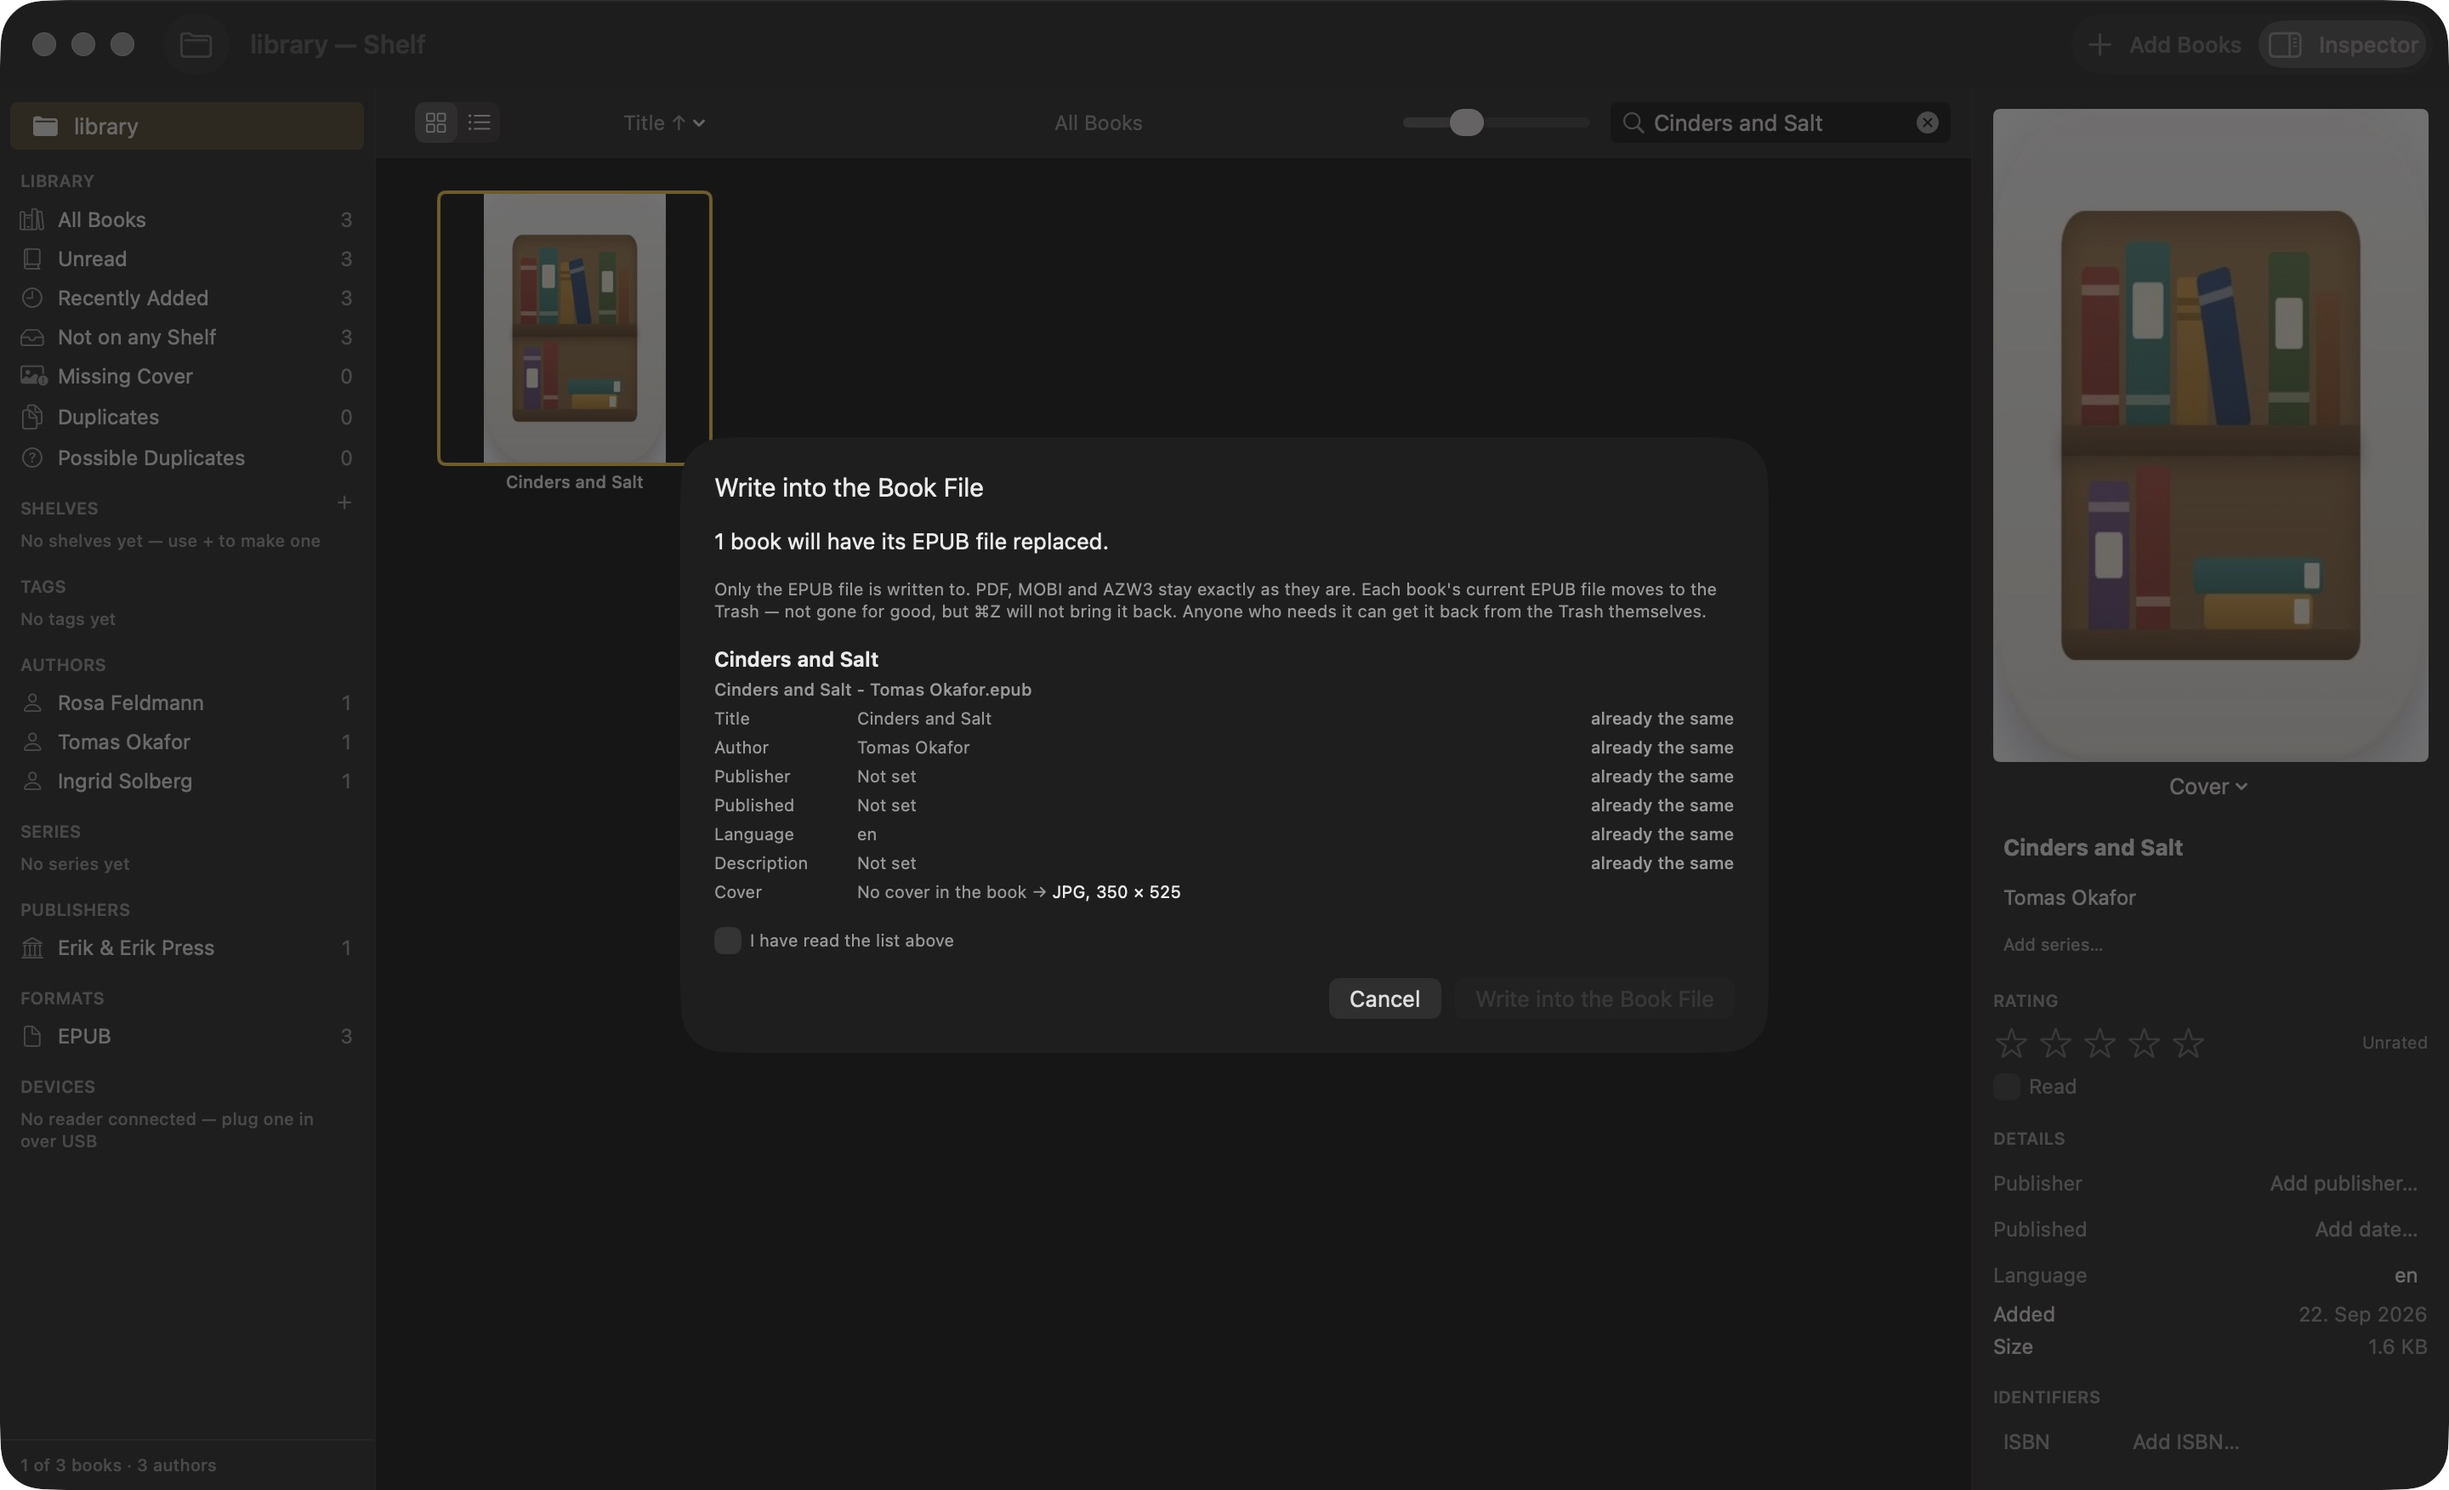
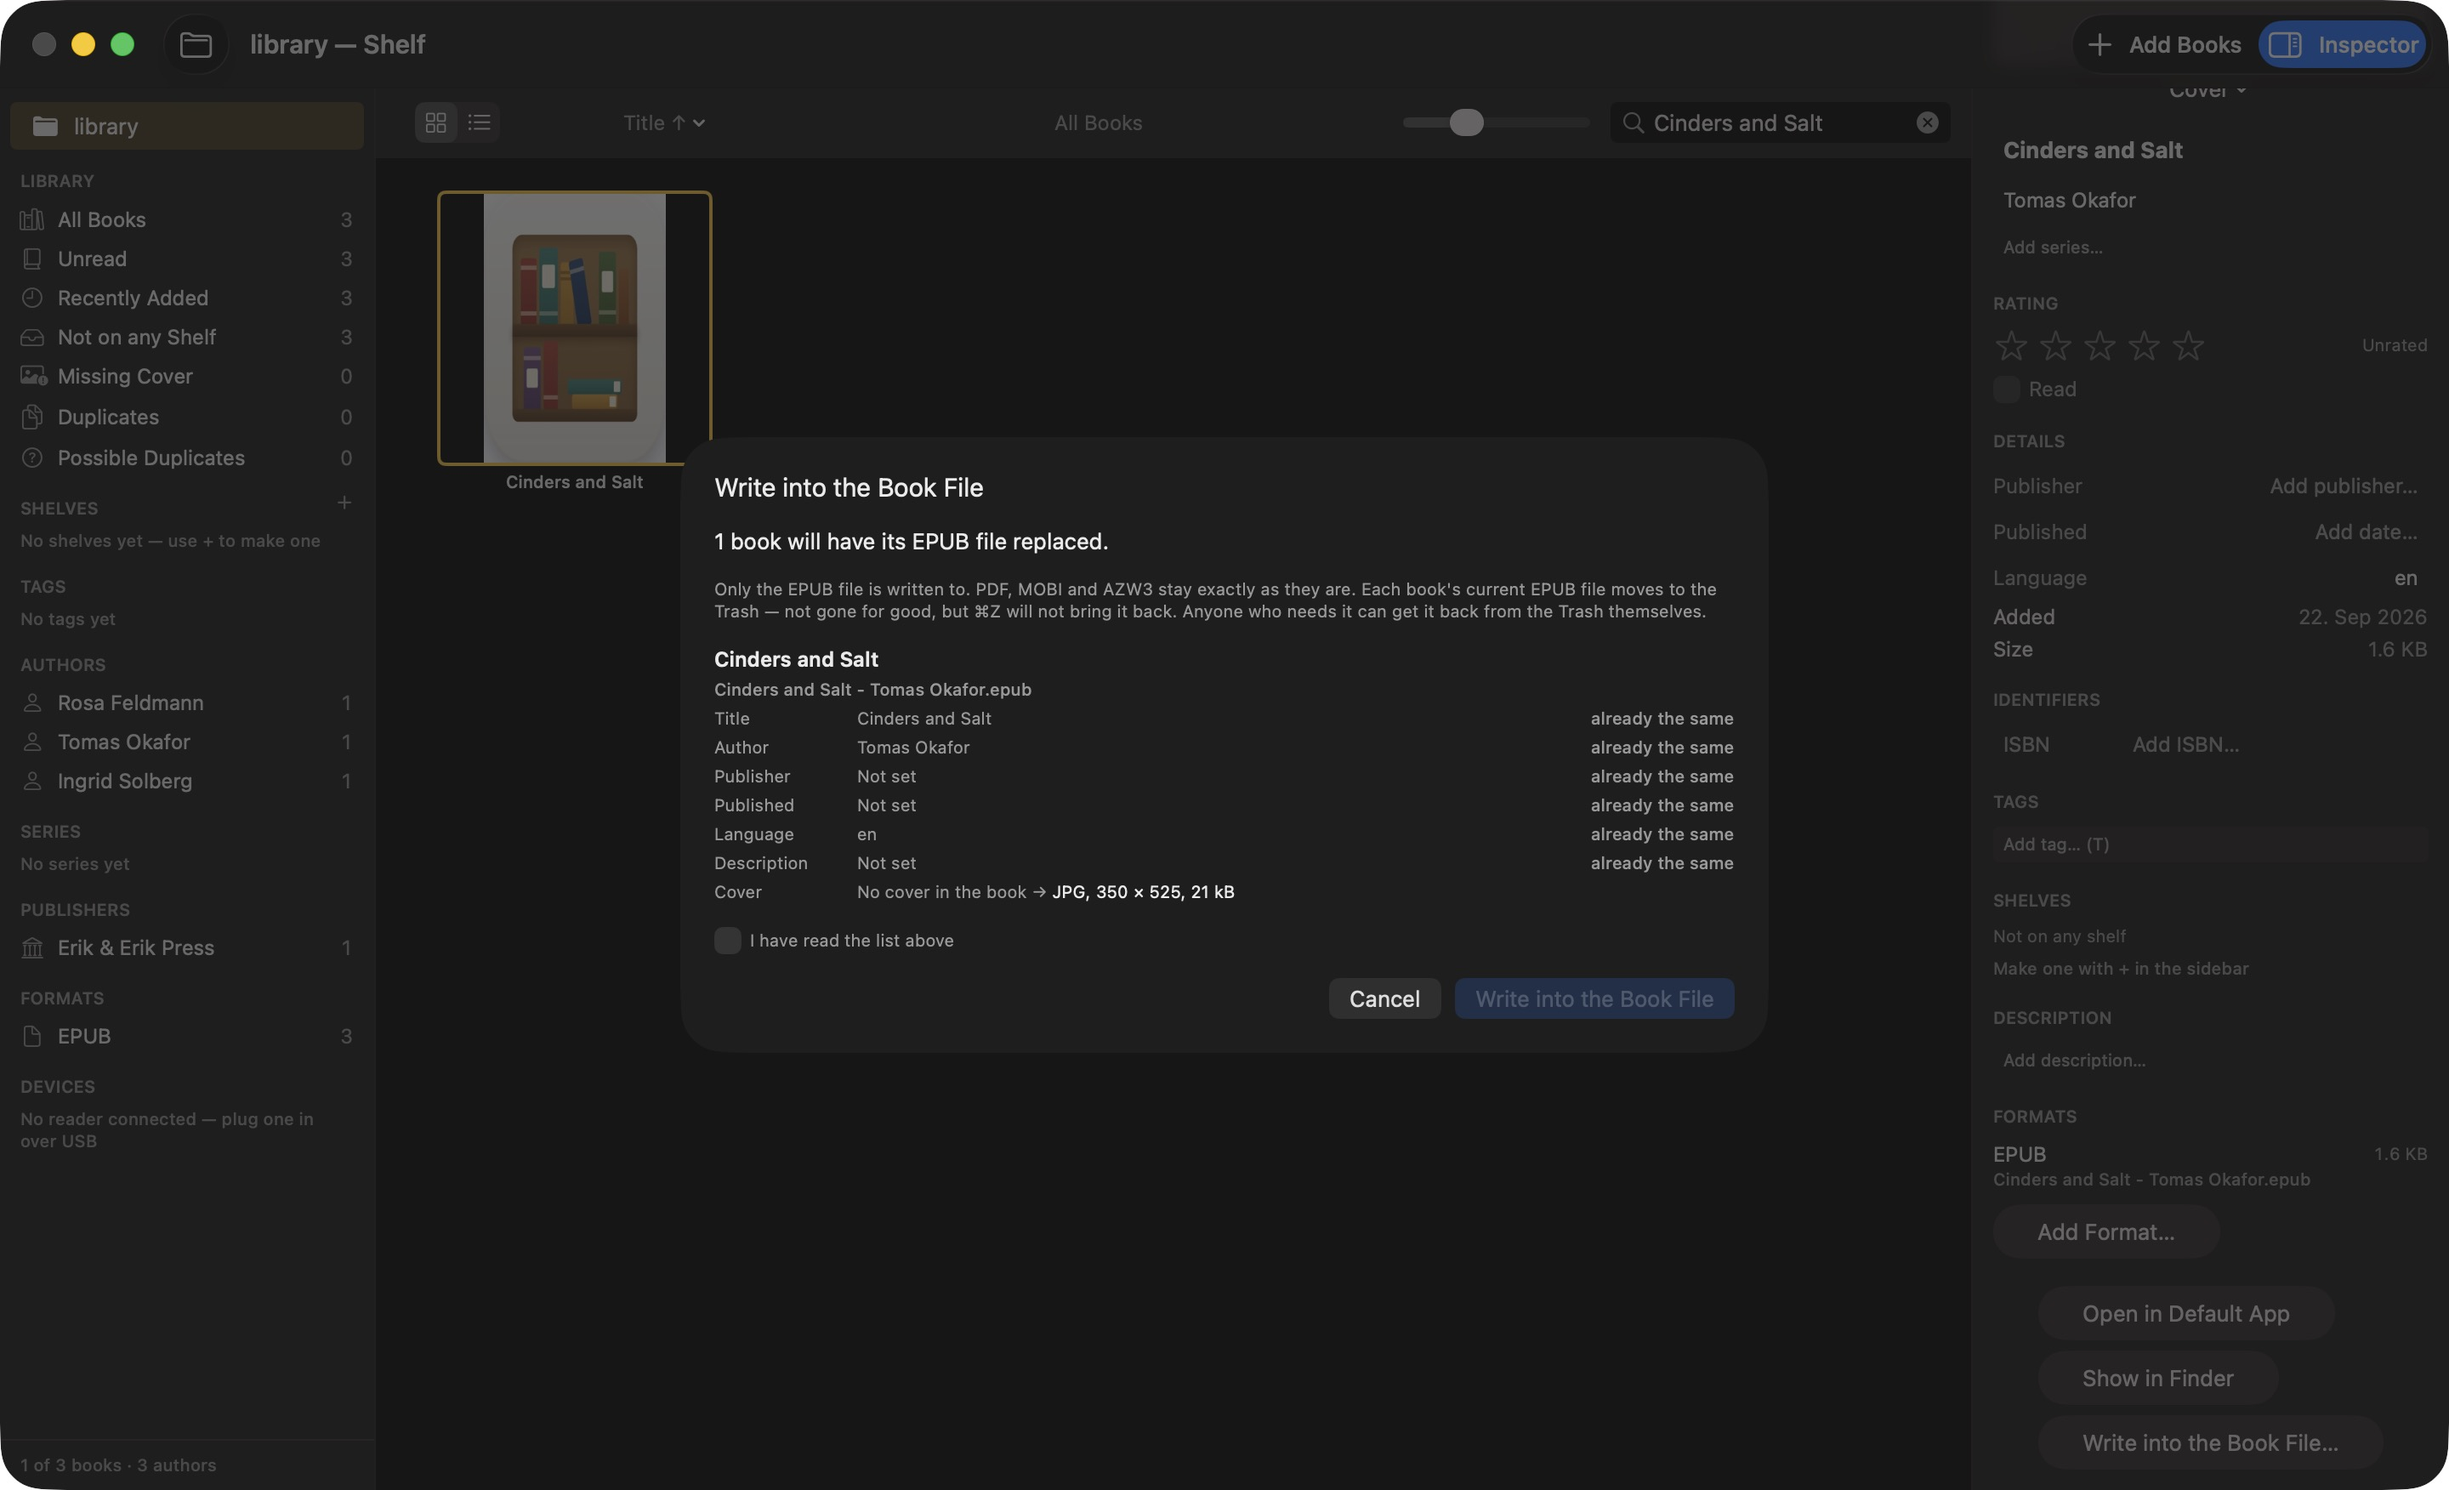
feat: the cover row in "Write into the Book File" names its own byte size
A cover written into a book can triple in size on the way in - deliberate,
but the row only ever said "JPG, 300 x 450" and left that number out.
CoverImage.describe now appends the byte size to both sides of the arrow,
through Loc.size, the same reader-language formatting the window's other
sheets already use for a size. Screenshots re-taken through the script,
both languages.

diff --git a/App/Shelf/Services/CoverImage.swift b/App/Shelf/Services/CoverImage.swift
@@ -57,11 +57,18 @@ enum CoverImage {
     }
 
     /// A short description for the "Write into the Book File" sheet's cover
-    /// row: format and pixel size, in words rather than a picture, because
-    /// the row compares two images without showing either of them
-    /// (`docs/adr/0021-…`, `EPUBWrite.CoverPlan` — the core knows only
-    /// bytes, never a pixel size, so this is the app-layer half of that
-    /// row, the same split `CoverImageRule`/`CoverImage` already has).
+    /// row: format, pixel size and byte size, in words rather than a
+    /// picture, because the row compares two images without showing either
+    /// of them (`docs/adr/0021-…`, `EPUBWrite.CoverPlan` — the core knows
+    /// only bytes, never a pixel size, so this is the app-layer half of
+    /// that row, the same split `CoverImageRule`/`CoverImage` already has).
+    ///
+    /// The byte size is the number the row used to leave out — a cover can
+    /// **triple** in size on its way in (a photograph re-encoded at
+    /// `CoverImageRule`'s own ceiling), which "JPG, 300 × 450" alone never
+    /// said. `Loc.size`, the same reader-language byte formatting every
+    /// other size in the window already uses, never the core's own
+    /// `ByteCount.format` (C-locale, for reports scripts grep).
     static func describe(_ data: Data) -> String {
         guard let source = CGImageSourceCreateWithData(data as CFData, nil), CGImageSourceGetCount(source) > 0
         else {
@@ -70,7 +77,8 @@ enum CoverImage {
         let width = pixels(of: source, kCGImagePropertyPixelWidth)
         let height = pixels(of: source, kCGImagePropertyPixelHeight)
         let format = CoverFile.fileExtension(for: data)?.uppercased() ?? "?"
-        return "\(format), \(width) × \(height)"
+        let size = Loc.size(Int64(data.count))
+        return "\(format), \(width) × \(height), \(size)"
     }
 
     // MARK: ImageIO

diff --git a/docs/screenshots/sprint-11/README.md b/docs/screenshots/sprint-11/README.md
@@ -65,12 +65,18 @@ every run.
 ## `1-cover-changed.jpg` — a cover Shelf would replace, beside a field that also changes
 
 "The Glass Almanac": a publisher edit (`Not set → Erik & Erik Press`) and a
-cover row in the very same list — `Cover  JPG, 300 × 450 → JPG, 400 × 600`
-— one sheet, one confirmation, exactly as `docs/adr/0021-…` asks for. No
-second command, no second sheet: the cover is one more row, in the same
-"label, then old → new" shape every text field already has, described in
-words because the core never decodes a pixel and this sheet does not
-either.
+cover row in the very same list — `Cover  JPG, 300 × 450, 17 kB → JPG,
+400 × 600, 25 kB` — one sheet, one confirmation, exactly as
+`docs/adr/0021-…` asks for. No second command, no second sheet: the cover
+is one more row, in the same "label, then old → new" shape every text
+field already has, described in words because the core never decodes a
+pixel and this sheet does not either.
+
+The byte size joined the row in the follow-up session that took this
+picture again (Sprint 11, Nachsitzung, Teil B) — a cover can **triple** in
+size going in (measured elsewhere: 194 % for one real book, 129 % for
+another), which "JPG, 300 × 450" alone never said. `Loc.size`, the same
+reader-language formatting every other size in the window already uses.
 
 *Judgement:* right. The row sits last, after every text field — the order
 `bookSection` already lists fields in, with the cover appended once.
@@ -79,7 +85,7 @@ either.
 
 "Cinders and Salt": every text field already matches ("schon gleich" /
 "already the same" down the list), and the cover row reads `Cover  No
-cover in the book → JPG, 350 × 525`. Nothing else about this book would
+cover in the book → JPG, 350 × 525, 21 kB`. Nothing else about this book would
 change — the cover alone is why "1 book will have its EPUB file replaced"
 is offered at all, and the checkbox and write button are enabled on that
 one row's own account.
@@ -94,7 +100,7 @@ never has to say "no cover" on both sides at once.
 "The Quiet Harbour": untouched since import, so its `cover.jpg` is exactly
 what import extracted from its own file. **Nothing to write** / *"This
 EPUB file would not change."*, the button disabled — and the cover row
-still shows, single-valued (`JPG, 300 × 450`), tagged **"already the
+still shows, single-valued (`JPG, 300 × 450, 17 kB`), tagged **"already the
 same"** off to the side, the identical treatment a text field gets in this
 state (Sprint 10, Schritt E2). The row does not disappear just because
 nothing would change; it says so, the same lesson that sprint already

diff --git a/CHANGELOG.md b/CHANGELOG.md
@@ -3,6 +3,37 @@
 Newest first. Measured numbers belong here, with the machine they were measured
 on and what was *not* measured.
 
+## Sprint 11, Nachsitzung, Teil B — the size the cover row left out · 22 September 2026
+
+Sprint 11, Schritt 3's cover row said "JPG, 300 × 450" and nothing about
+the number that actually matters: a cover written into a book can
+**triple** in size (194 % for *Die Verwandlung*, 129 % for *Alice*,
+measured in that same sprint's run) — deliberate, and staying that way, but
+the row never said so.
+
+`CoverImage.describe(_:)` (`App/Shelf/Services/CoverImage.swift`) now
+appends the byte size to both sides: `"JPG, 300 × 450, 17 kB → JPG,
+400 × 600, 25 kB"`. `Loc.size`, the same reader-language byte formatting
+`OrphanSheet`, `ExportSheet`, `SendToDeviceSheet` and `Summaries` already
+use for a size sentence in a sheet — never the core's own `ByteCount
+.format`, which is C-locale on purpose, for reports scripts grep. No new
+catalogue entries: the row is format code and numbers glued together, never
+routed through `Loc.string` as a sentence, and stays that way — checked by
+reading the row in both languages, not merely by reasoning about it: the
+"kB"/"×" punctuation is identical in both, only the surrounding sentences
+translate.
+
+Screenshots re-taken through `Scripts/write-into-book-cover-shot.sh`
+(never by hand), both languages, against the fixture's own three real
+JPEGs — the same three-book library Schritt 3 built. Every value shown
+(`17 kB → 25 kB`, `21 kB`, `17 kB`) read directly off the sheet in the
+screenshot, not computed separately and merely trusted to match.
+`docs/screenshots/sprint-11/README.md` quotes the new row under all three
+relevant pictures.
+
+790 core tests (unchanged — no core code touched), `make lint`, `make app`
+and `make smoke` clean. One commit.
+
 ## Sprint 11, Nachsitzung, Teil A — the search itself, not only the check · 22 September 2026
 
 The previous session's own entry below left one thing open on purpose:

diff --git a/docs/BACKLOG.md b/docs/BACKLOG.md
@@ -1198,3 +1198,21 @@ candidate found and what each was built from, rather than aborting on the
 first (possibly stale) one discovery happened to pick; more than one match
 takes the newest and says so in one line. All twenty-one scripts call it.
 `docs/CHANGELOG.md`, Sprint 11, Aufräum-Sitzung Teil A.
+
+## Follow-up — the size the cover row left out · done
+
+Sprint 11, Schritt 3's own cover row (above) described a cover as "JPG,
+W × H" — format and pixel size, never the number that actually matters: a
+cover written into a book can **triple** in size on the way in (194 % for
+one real book, 129 % for another, measured in the Sprint 11 run itself),
+and the row said nothing about it. `CoverImage.describe(_:)` now appends
+the byte size to both sides of the arrow — `"JPG, 300 × 450, 17 kB → JPG,
+400 × 600, 25 kB"` — through `Loc.size`, the same reader-language byte
+formatting every other size in the window already uses (never the core's
+own `ByteCount.format`, which is for reports scripts grep). No new
+catalogue entries: the row was never routed through `Loc.string` as a
+sentence, only format code and numbers glued together, and stays that way.
+
+Screenshots re-taken through `Scripts/write-into-book-cover-shot.sh` (not
+by hand), both languages; `docs/screenshots/sprint-11/README.md` updated
+to quote the new row. `docs/CHANGELOG.md`, Sprint 11, Nachsitzung, Teil B.
